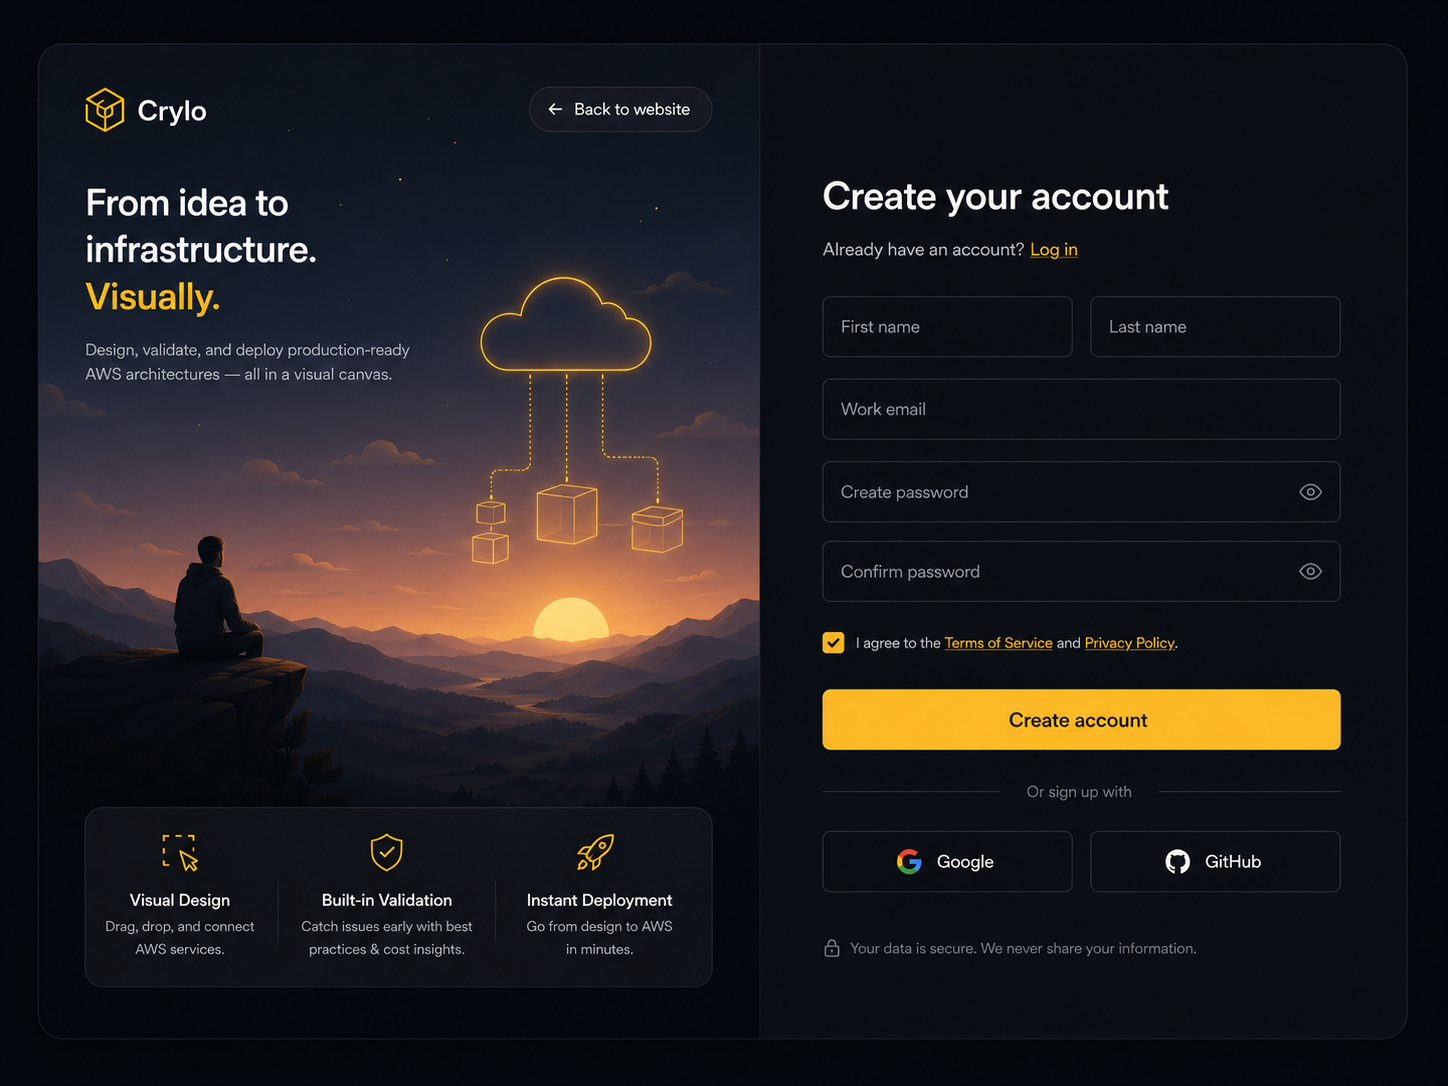
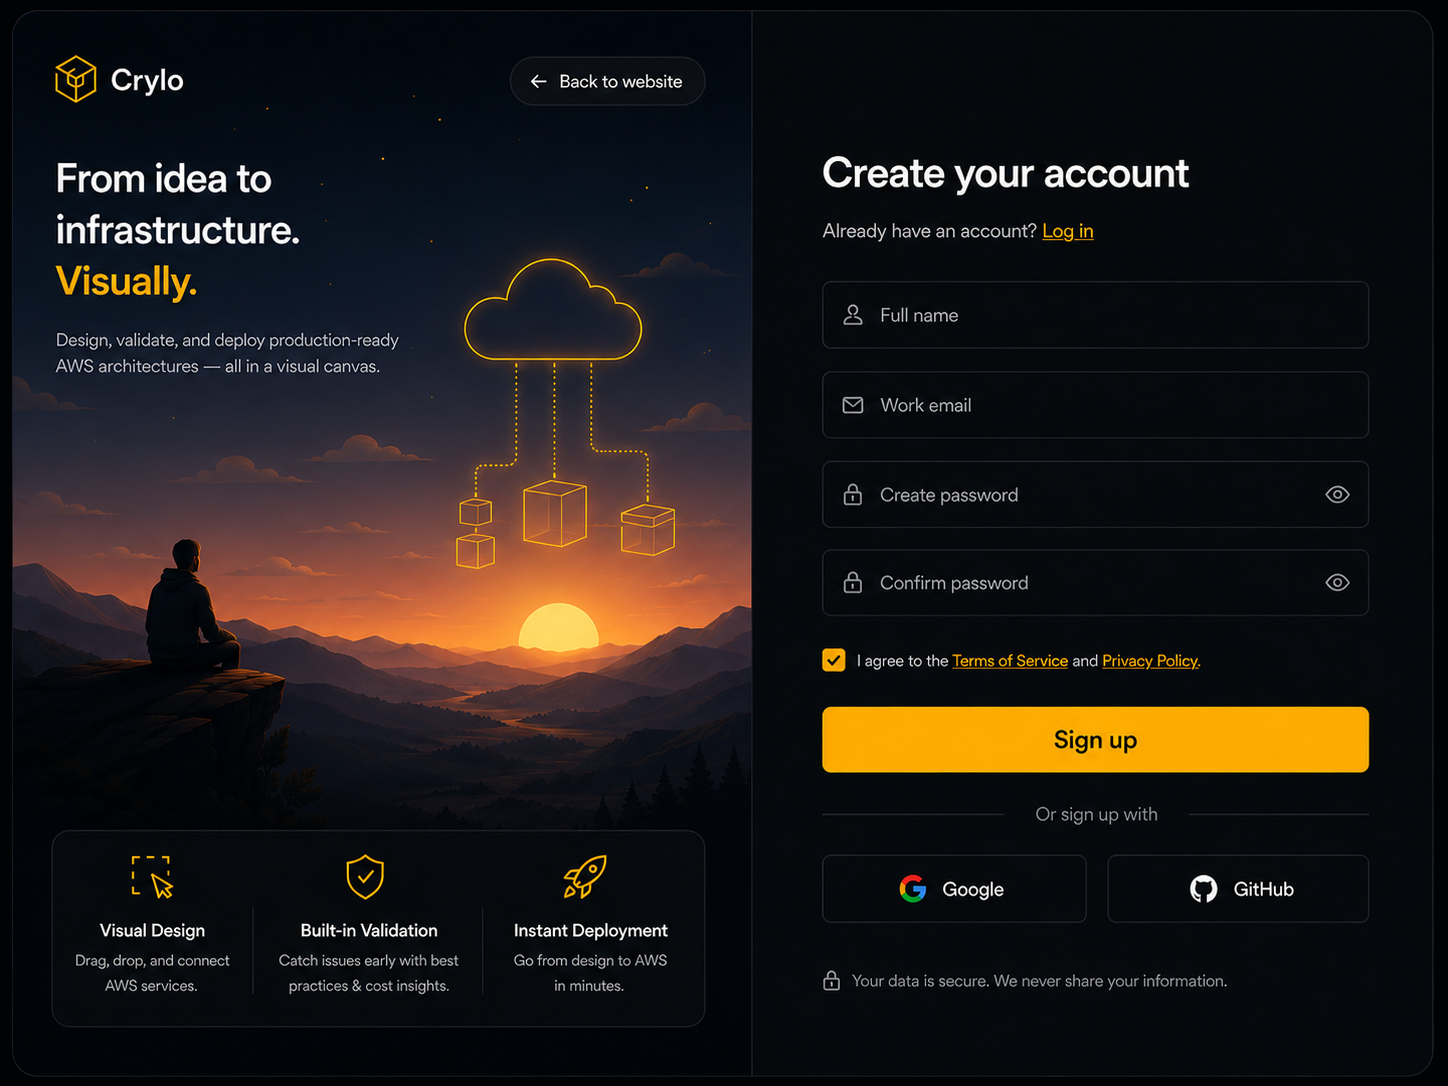
style(auth): redesign signup page

diff --git a/frontend/src/pages/auth/Signup.jsx b/frontend/src/pages/auth/Signup.jsx
@@ -1,10 +1,37 @@
 import { useState } from 'react'
-import { useNavigate } from 'react-router-dom'
+import { Link, useNavigate } from 'react-router-dom'
 import { signUp } from 'aws-amplify/auth'
 import Button from '../../components/ui/Button'
-import Card from '../../components/ui/Card'
 import Input from '../../components/ui/Input'
 import { GitHubIcon, GoogleIcon } from '../../components/ui/BrandIcons'
+
+const featureItems = [
+  {
+    title: 'Visual Design',
+    description: 'Drag, drop, and connect AWS services.',
+    icon: (
+      <path d='M9 3v7.5L14.5 8 12 13.5l4 1.5-1.4 3.7-4-1.5L8 22 5.5 20l2.4-4.4L4 14V4.5L9 3Z' />
+    ),
+  },
+  {
+    title: 'Built-in Validation',
+    description: 'Catch issues early with best practices and cost insights.',
+    icon: <path d='M12 3 5 6v5.5c0 4.4 2.9 8.4 7 9.5 4.1-1.1 7-5.1 7-9.5V6l-7-3Zm-3 9 2 2 4-4' />,
+  },
+  {
+    title: 'Instant Deployment',
+    description: 'Go from design to AWS in minutes.',
+    icon: <path d='M14 4c3.2.5 5.5 2.8 6 6l-5 5-4-4 3-7Zm-6.5 8.5 4 4L8 20H4l3.5-7.5Zm8.5-6.5 2 2M6 18l-2 2' />,
+  },
+]
+
+function FeatureIcon({ children }) {
+  return (
+    <svg viewBox='0 0 24 24' className='mx-auto h-8 w-8 text-amber-300' fill='none' stroke='currentColor' strokeWidth='1.8' strokeLinecap='round' strokeLinejoin='round' aria-hidden='true'>
+      {children}
+    </svg>
+  )
+}
 
 export default function Signup() {
   const navigate = useNavigate()
@@ -45,54 +72,147 @@ export default function Signup() {
   }
 
   return (
-    <Card className='mx-auto max-w-md'>
-      <h1 className='text-2xl font-semibold tracking-tight'>Create Account</h1>
-      <p className='mt-2 text-sm font-normal text-text-muted'>Start building with Clyro.</p>
+    <div className='fixed inset-0 z-50 overflow-y-auto bg-[#030609] px-4 py-5 text-text-primary sm:px-6 lg:px-8'>
+      <div className='mx-auto flex min-h-full w-full max-w-[1460px] items-center'>
+        <div className='grid w-full overflow-hidden rounded-2xl border border-white/[0.12] bg-[#060a0e] shadow-[0_24px_90px_rgba(0,0,0,0.58)] lg:min-h-[820px] lg:grid-cols-[1.08fr_1fr]'>
+          <section className='order-2 flex flex-col border-t border-white/[0.1] bg-[radial-gradient(circle_at_70%_35%,rgba(251,191,36,0.16),transparent_24%),linear-gradient(145deg,rgba(7,14,22,0.98),rgba(8,10,13,0.98))] px-6 py-8 sm:px-10 sm:py-10 lg:order-1 lg:border-r lg:border-t-0 lg:px-11 lg:py-11'>
+            <div className='flex items-center justify-between gap-4'>
+              <Link to='/' className='flex w-fit items-center gap-3'>
+                <span className='grid h-10 w-10 place-items-center rounded-lg border border-amber-300/70 bg-amber-400/10 text-base font-bold text-amber-300 shadow-[0_0_24px_rgba(251,191,36,0.18)]'>
+                  C
+                </span>
+                <span className='text-2xl font-semibold tracking-tight text-white'>Clyro</span>
+              </Link>
+              <Link to='/' className='hidden rounded-full border border-white/[0.12] bg-white/[0.035] px-4 py-2 text-sm text-text-muted hover:border-amber-300/45 hover:text-amber-200 sm:inline-flex'>
+                Back to website
+              </Link>
+            </div>
 
-      <form className='mt-6 space-y-4'>
-        <Input
-          label='Name'
-          placeholder='Your full name'
-          value={name}
-          onChange={(event) => setName(event.target.value)}
-        />
-        <Input
-          label='Email'
-          type='email'
-          placeholder='you@company.com'
-          value={email}
-          onChange={(event) => setEmail(event.target.value)}
-        />
-        <Input
-          label='Password'
-          type='password'
-          placeholder='Create a password'
-          value={password}
-          onChange={(event) => setPassword(event.target.value)}
-        />
-        <Input
-          label='Confirm Password'
-          type='password'
-          placeholder='Confirm your password'
-          value={confirmPassword}
-          onChange={(event) => setConfirmPassword(event.target.value)}
-        />
-        {error ? <p className='text-sm text-danger'>{error}</p> : null}
-        <Button type='button' variant='primary' className='w-full' onClick={handleSignUp} disabled={loading}>
-          {loading ? 'Creating account...' : 'Sign Up'}
-        </Button>
-      </form>
+            <div className='mt-12 max-w-xl'>
+              <h1 className='text-4xl font-semibold leading-tight tracking-normal text-white sm:text-5xl'>
+                From idea to infrastructure.
+                <br />
+                <span className='text-amber-300'>Visually.</span>
+              </h1>
+              <p className='mt-6 max-w-md text-base leading-7 text-text-muted'>
+                Design, validate, and deploy production-ready AWS architectures, all in a visual canvas.
+              </p>
+            </div>
 
-      <div className='mt-5 space-y-2'>
-        <Button variant='secondary' className='w-full gap-2'>
-          <GoogleIcon />
-          Continue with Google
-        </Button>
-        <Button variant='secondary' className='w-full gap-2'>
-          <GitHubIcon />
-          Continue with GitHub
-        </Button>
+            <div className='relative mt-8 min-h-[300px] flex-1 overflow-hidden rounded-xl border border-white/[0.12] bg-[radial-gradient(circle_at_62%_48%,rgba(251,191,36,0.32),transparent_22%),linear-gradient(180deg,rgba(19,28,43,0.82),rgba(10,13,18,0.94)_62%,rgba(5,8,11,0.98))] shadow-[inset_0_1px_0_rgba(255,255,255,0.08)]'>
+              <div className='absolute inset-0 bg-[linear-gradient(rgba(255,255,255,0.04)_1px,transparent_1px),linear-gradient(90deg,rgba(255,255,255,0.04)_1px,transparent_1px)] bg-[size:48px_48px] opacity-35' />
+              <div className='absolute left-1/2 top-[42%] h-24 w-56 -translate-x-1/2 rounded-full border border-amber-300/55 bg-black/35 shadow-[0_0_60px_rgba(251,191,36,0.35)]' />
+              <div className='absolute left-1/2 top-1/2 w-[72%] -translate-x-1/2 -translate-y-1/2 rounded-2xl border border-amber-300/35 bg-[#080d12]/85 px-6 py-8 text-center shadow-[0_0_80px_rgba(251,191,36,0.16)] backdrop-blur'>
+                <div className='mx-auto h-14 w-14 rounded-xl border border-amber-300/45 bg-amber-300/10 shadow-[0_0_35px_rgba(251,191,36,0.22)]' />
+                <p className='mt-5 text-sm font-semibold uppercase tracking-[0.2em] text-amber-200'>Illustration Placeholder</p>
+                <p className='mt-3 text-sm leading-6 text-text-muted'>Premium architecture artwork will sit here.</p>
+              </div>
+              <div className='absolute bottom-0 left-0 right-0 h-32 bg-gradient-to-t from-[#060a0e] to-transparent' />
+            </div>
+
+            <div className='mt-6 grid overflow-hidden rounded-xl border border-white/[0.12] bg-black/24 shadow-[inset_0_1px_0_rgba(255,255,255,0.06)] sm:grid-cols-3'>
+              {featureItems.map((feature) => (
+                <div key={feature.title} className='border-white/[0.1] px-5 py-6 text-center sm:border-r sm:last:border-r-0'>
+                  <FeatureIcon>{feature.icon}</FeatureIcon>
+                  <h2 className='mt-4 text-sm font-semibold text-white'>{feature.title}</h2>
+                  <p className='mt-2 text-xs leading-5 text-text-muted'>{feature.description}</p>
+                </div>
+              ))}
+            </div>
+          </section>
+
+          <section className='order-1 flex items-center bg-[radial-gradient(circle_at_78%_16%,rgba(255,255,255,0.06),transparent_28%),linear-gradient(180deg,rgba(255,255,255,0.035),rgba(255,255,255,0.01))] px-6 py-8 sm:px-10 sm:py-10 lg:order-2 lg:px-16'>
+            <div className='mx-auto w-full max-w-xl'>
+              <h2 className='text-4xl font-semibold tracking-normal text-white sm:text-5xl'>Create your account</h2>
+              <p className='mt-5 text-base text-text-muted'>
+                Already have an account?{' '}
+                <Link to='/login' className='font-semibold text-amber-300 underline-offset-4 hover:text-amber-200 hover:underline'>
+                  Log in
+                </Link>
+              </p>
+
+              <form className='mt-9 space-y-4'>
+                <Input
+                  label='Full Name'
+                  placeholder='Your full name'
+                  value={name}
+                  onChange={(event) => setName(event.target.value)}
+                />
+                <Input
+                  label='Work Email'
+                  type='email'
+                  placeholder='you@company.com'
+                  value={email}
+                  onChange={(event) => setEmail(event.target.value)}
+                />
+                <Input
+                  label='Create Password'
+                  type='password'
+                  placeholder='Create a password'
+                  value={password}
+                  onChange={(event) => setPassword(event.target.value)}
+                />
+                <Input
+                  label='Confirm Password'
+                  type='password'
+                  placeholder='Confirm your password'
+                  value={confirmPassword}
+                  onChange={(event) => setConfirmPassword(event.target.value)}
+                />
+                <label className='flex items-start gap-3 pt-1 text-sm leading-6 text-text-muted'>
+                  <input
+                    type='checkbox'
+                    defaultChecked
+                    className='mt-1 h-4 w-4 rounded border-white/[0.2] bg-white/[0.04] accent-amber-400'
+                  />
+                  <span>
+                    I agree to the{' '}
+                    <Link to='/' className='font-semibold text-amber-300 underline-offset-4 hover:text-amber-200 hover:underline'>
+                      Terms of Service
+                    </Link>{' '}
+                    and{' '}
+                    <Link to='/' className='font-semibold text-amber-300 underline-offset-4 hover:text-amber-200 hover:underline'>
+                      Privacy Policy
+                    </Link>
+                    .
+                  </span>
+                </label>
+                {error ? <p className='rounded-md border border-danger/30 bg-danger/10 px-3 py-2 text-sm text-danger'>{error}</p> : null}
+                <Button type='button' variant='primary' size='lg' className='mt-2 w-full text-base' onClick={handleSignUp} disabled={loading}>
+                  {loading ? 'Creating account...' : 'Sign Up'}
+                </Button>
+              </form>
+
+              <div className='my-8 flex items-center gap-4 text-sm text-text-muted'>
+                <span className='h-px flex-1 bg-white/[0.12]' />
+                <span>Or sign up with</span>
+                <span className='h-px flex-1 bg-white/[0.12]' />
+              </div>
+
+              <div className='grid gap-3 sm:grid-cols-2'>
+                <Button variant='secondary' className='min-h-12 w-full gap-3 border-white/[0.14] bg-white/[0.035] text-base'>
+                  <GoogleIcon className='h-5 w-5' />
+                  Google
+                </Button>
+                <Button variant='secondary' className='min-h-12 w-full gap-3 border-white/[0.14] bg-white/[0.035] text-base'>
+                  <GitHubIcon className='h-5 w-5' />
+                  GitHub
+                </Button>
+              </div>
+
+              <p className='mt-9 flex items-center gap-3 text-sm text-text-muted'>
+                <span className='grid h-7 w-7 place-items-center rounded-md border border-white/[0.12] bg-white/[0.035] text-amber-300'>
+                  <svg viewBox='0 0 24 24' className='h-4 w-4' fill='none' stroke='currentColor' strokeWidth='1.8' strokeLinecap='round' strokeLinejoin='round' aria-hidden='true'>
+                    <path d='M7 11V8a5 5 0 0 1 10 0v3' />
+                    <path d='M6 11h12v9H6z' />
+                  </svg>
+                </span>
+                Your data is secure. We never share your information.
+              </p>
+            </div>
+          </section>
+        </div>
       </div>
-    </Card>
+    </div>
   )
 }
